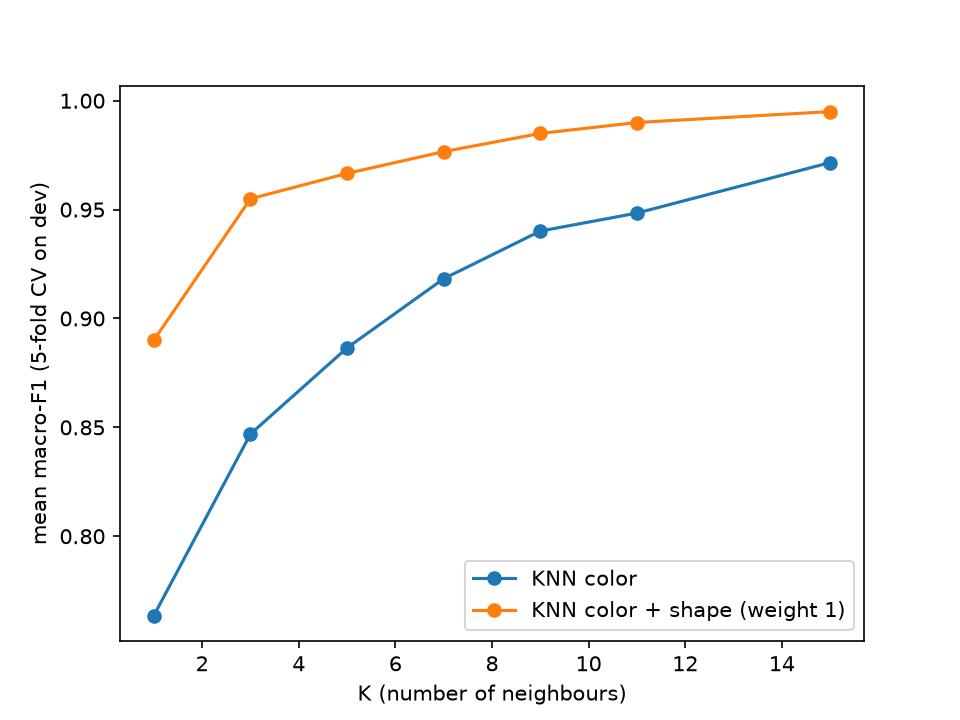
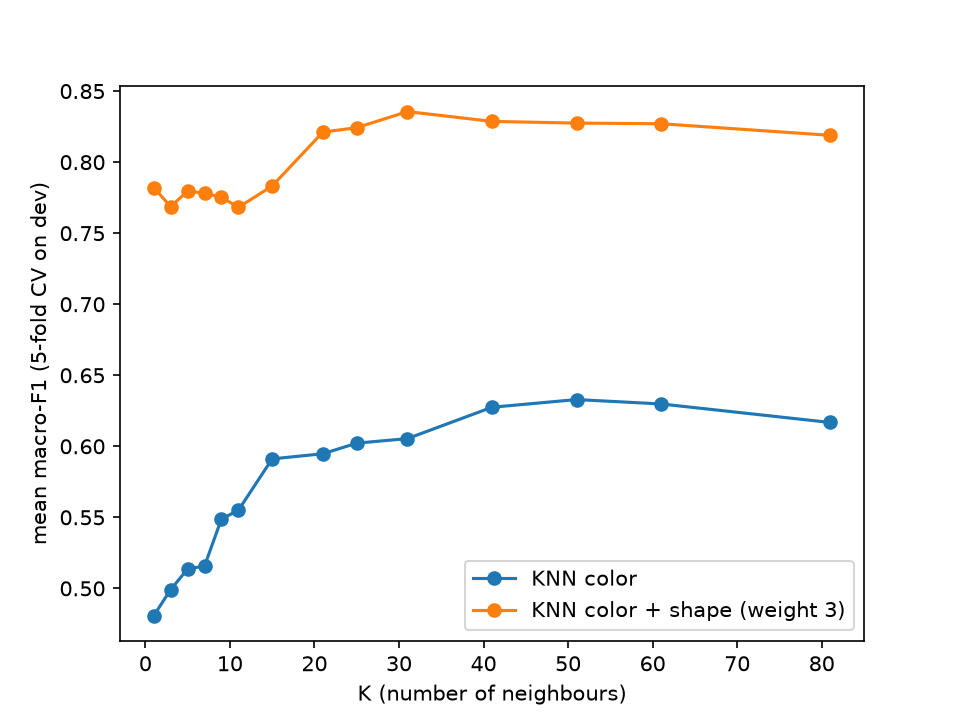
Tuning

diff --git a/scripts/tune.py b/scripts/tune.py
@@ -8,13 +8,13 @@ from sklearn.model_selection import cross_val_score, StratifiedGroupKFold;
 from src.classifiers import build_X, make_knn;
 from src.data import SEED, load_features, FIGURES_DIR, RESULTS_DIR;
 
-K_VALUES = [1, 3, 5, 7, 9, 11, 15]; # k values to try (how many neighbours vote)
-SHAPE_WEIGHTS = [0.5, 1, 2, 4, 8]; # how much the 3 shape column contribute / weigh
+K_VALUES = [1, 3, 5, 7, 9, 11, 15, 21, 25, 31, 41, 51, 61, 81]; # k values to try (how many neighbours vote)
+SHAPE_WEIGHTS = [0.01, 0.03, 0.1, 0.3, 1, 3, 10]; # how much the 3 shape column contribute / weigh
 
-def cv_score(model, X, dev, cv):
+def cv_score(model, X, labels, groups, cv):
   # 5 fold cross validation have 5 sets, pick one for training and the rest for validation
   # this is done on dev
-  scores = cross_val_score(model, X, dev["label"], groups=dev["group"], cv=cv, scoring="f1_macro");
+  scores = cross_val_score(model, X, labels, groups=groups, cv=cv, scoring="f1_macro");
   return scores.mean(), scores.std();
 
 def best_row(rows, method):
@@ -28,20 +28,27 @@ def best_row(rows, method):
 def main():
   fake = "--fake" in sys.argv; # this is for fake arg
   dev = load_features("dev", fake=fake); # loads feature could be fake
-  cv = StratifiedGroupKFold(n_splits=5, shuffle=True, random_state=SEED); # select 5 splits, 4 go as training 1 is testing
+
+  # group by variety
+  varieties = [];
+  for g in dev["group"]:
+    varieties.append(g.split("#")[0]);
+
+  # updated this to 4 because orange has 4 dev varieties
+  cv = StratifiedGroupKFold(n_splits=4, shuffle=True, random_state=SEED); # select 4 splits, 3 go as training 1 is testing
   rows = []; # one row per setting [method, k, shape_weight, mean, std];
 
   # first we don't use shape because we want to compare shape vs no shape
   X = build_X(dev, False);
   for k in K_VALUES:
-    mean, std = cv_score(make_knn(k, False), X, dev, cv);
+    mean, std = cv_score(make_knn(k, False), X, dev["label"], varieties, cv);
     rows.append(["knn_color", k, "", mean, std]); # adds to the row
 
   # other method is with shape
   X = build_X(dev, True);
   for k in K_VALUES:
     for w in SHAPE_WEIGHTS:
-      mean, std = cv_score(make_knn(k, True, w), X, dev, cv);
+      mean, std = cv_score(make_knn(k, True, w), X, dev["label"], varieties, cv);
       rows.append(["knn_color_shape", k, w, mean, std]);
 
   best_color = best_row(rows, "knn_color");

diff --git a/src/classifiers.py b/src/classifiers.py
@@ -2,6 +2,7 @@ import numpy as np;
 from sklearn.neighbors import KNeighborsClassifier;
 from sklearn.pipeline import Pipeline;
 from sklearn.preprocessing import StandardScaler, FunctionTransformer;
+from sklearn.compose import ColumnTransformer;
 
 def build_X(data, use_shape):
   # it's expected that the data contains hist and shape.
@@ -24,9 +25,15 @@ def make_knn(k, use_shape, shape_weight=1.0):
   # we then vote when new datapoint comes in (as a vector) you measure distance to all the points in your data. 
   # example if point has 2 closest to "apple" and 1 "orange" then apple wins and new point is classified as apple
   # the weight matters as there are 64 color items and 3 shape ones
-  # scale is used to balance / normalize / standarize values as hist values can range diff from shape values
-  steps = [("scale", StandardScaler())];
+  # updating scale since color histograms are between 0 and 1 we are going to standardize the shape weights
+
+  steps = [];
   if use_shape:
+    scale_shape = ColumnTransformer([
+      ("hist", "passthrough", list(range(N_HIST))),
+      ("shape", StandardScaler(), [N_HIST, N_HIST + 1, N_HIST + 2]),
+    ]);
+    steps.append(("scale", scale_shape));
     steps.append(("weight", FunctionTransformer(_weight_shape, kw_args={"shape_weight": shape_weight})));
   steps.append(("knn", KNeighborsClassifier(n_neighbors=k)));
   return Pipeline(steps);

diff --git a/src/data.py b/src/data.py
@@ -197,7 +197,7 @@ def fake_features(split, n=200):
       shapes.append(np.array(shape[fruit]) + rng.normal(0, 0.06, 3));
       hues.append(np.array(hue[fruit]) + rng.normal(0, 0.05, 4));
       labels.append(fruit);
-      groups.append("fake " + fruit + "#" + str(i // 20));
+      groups.append("fake " + fruit + " " + str(i % 10) + "#0");
       paths.append("fake/" + fruit + "/" + str(i) + ".jpg");
       times.append(0.002);
 
